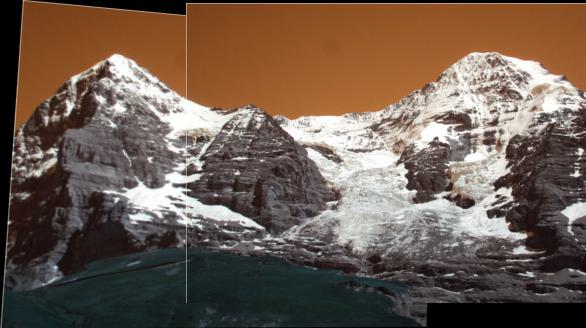
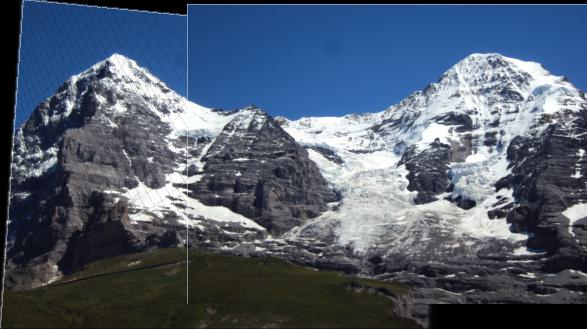
up

diff --git a/CV2024_HW3/test.py b/CV2024_HW3/test.py
@@ -40,9 +40,10 @@ def detect_and_match_features(img1, img2, feature='SIFT'):
     matches = match(descriptors1, descriptors2)
     good_matches = [m for m, n in matches if m.distance < 0.75 * n.distance]
     
-
+    
     img_matches = cv2.drawMatches(img1, keypoints1, img2, keypoints2, good_matches, None, flags=cv2.DrawMatchesFlags_NOT_DRAW_SINGLE_POINTS)
-
+    
+    img_matches = cv2.cvtColor(img_matches, cv2.COLOR_BGR2RGB)
     plt.figure(figsize=(12, 6))
     plt.imshow(img_matches)
     plt.title("Feature Matching")
@@ -84,9 +85,6 @@ def ransac_homography(keypoints1, keypoints2, good_matches, threshold=5.0, max_i
             
             projected_pt1 = H @ pt1
             projected_pt1 /= projected_pt1[2]  
-            print("error:")
-            print(projected_pt1[:2])
-            print(pt2[:2])
             error = np.linalg.norm(projected_pt1[:2] - pt2[:2])
             if error < threshold:
                 inliers += 1
@@ -113,32 +111,54 @@ def ransac_homography(keypoints1, keypoints2, good_matches, threshold=5.0, max_i
    
     return ransac_homography(good_matches, keypoints1, keypoints2, threshold=5.0, max_iters=1000)
     
-    
-     
-
 
 def warp_and_stitch(img1, img2, H):
     h2, w2 = img2.shape[:2]
-    
     corners_img1 = np.float32([[0, 0], [0, img1.shape[0]], [img1.shape[1], img1.shape[0]], [img1.shape[1], 0]]).reshape(-1, 1, 2)
-    warped_corners_img1 = cv2.perspectiveTransform(corners_img1, H)
+    
+    corners_img1_enpand = np.concatenate((corners_img1, np.ones((4, 1, 1))), axis=2)
+    warped_corners_img1 = []
+    for i in range(len(corners_img1_enpand)):
+        temp = H @ corners_img1_enpand[i].T
+        temp /= temp[2,0]
+        warped_corners_img1.append(temp[0:2].T)
+    
     corners = np.concatenate((warped_corners_img1, np.float32([[0, 0], [0, h2], [w2, h2], [w2, 0]]).reshape(-1, 1, 2)), axis=0)
-
     [x_min, y_min] = np.int32(corners.min(axis=0).ravel() - 0.5)
     [x_max, y_max] = np.int32(corners.max(axis=0).ravel() + 0.5)
     translation_dist = [-x_min, -y_min]
     H_translation = np.array([[1, 0, translation_dist[0]], [0, 1, translation_dist[1]], [0, 0, 1]])
 
     result = cv2.warpPerspective(img1, H_translation @ H, (x_max - x_min, y_max - y_min))
+    
+    result = np.zeros((y_max - y_min, x_max - x_min, 3))
+    temp = H_translation @ H
+    for i in range(len(img1)):
+        for j in range(len(img1[0])):
+            newtemp = temp @ np.array([[j],[i],[1]])
+            newtemp /= newtemp[2,0]
+            result[int(newtemp[1,0]),int(newtemp[0,0])] = img1[i,j]
+    temp = result
+
+    for i in range(len(temp)):
+        for j in range(len(temp[0])):
+            if temp[i,j].sum() == 0:
+                count = 0
+                for x in range(-1,2):
+                    for y in range(-1,2):
+                        if result[min(len(temp)-1,max(0,i+x)),min(len(temp[0])-1,max(0,j+y))].sum() != 0 :
+                            count += 1
+                            result[i,j] += result[min(len(temp)-1,max(0,i+x)),min(len(temp[0])-1,max(0,j+y))]/25
+                if count != 0:
+                    result[i,j] /= count
+                    result[i,j] *= 25
+    
     result[translation_dist[1]:h2 + translation_dist[1], translation_dist[0]:w2 + translation_dist[0]] = img2
-
-    return result
-
+    return result.astype("uint8")
 
 
-
-img1 = cv2.imread('data/hill1.jpg', cv2.COLOR_BGR2RGB)
-img2 = cv2.imread('data/hill2.jpg', cv2.COLOR_BGR2RGB)
+img1 = cv2.imread('data/t1.jpg', cv2.COLOR_RGB2BGR)
+img2 = cv2.imread('data/t2.jpg', cv2.COLOR_RGB2BGR)
 
 features = ['SIFT', 'MSER']
 # step 1,2
@@ -152,6 +172,7 @@ print(H)
 
 # step 4
 result = warp_and_stitch(img1, img2, H)
+result = cv2.cvtColor(result, cv2.COLOR_BGR2RGB)
 
 plt.figure(figsize=(10, 5))
 plt.imshow(result, cmap='gray')
